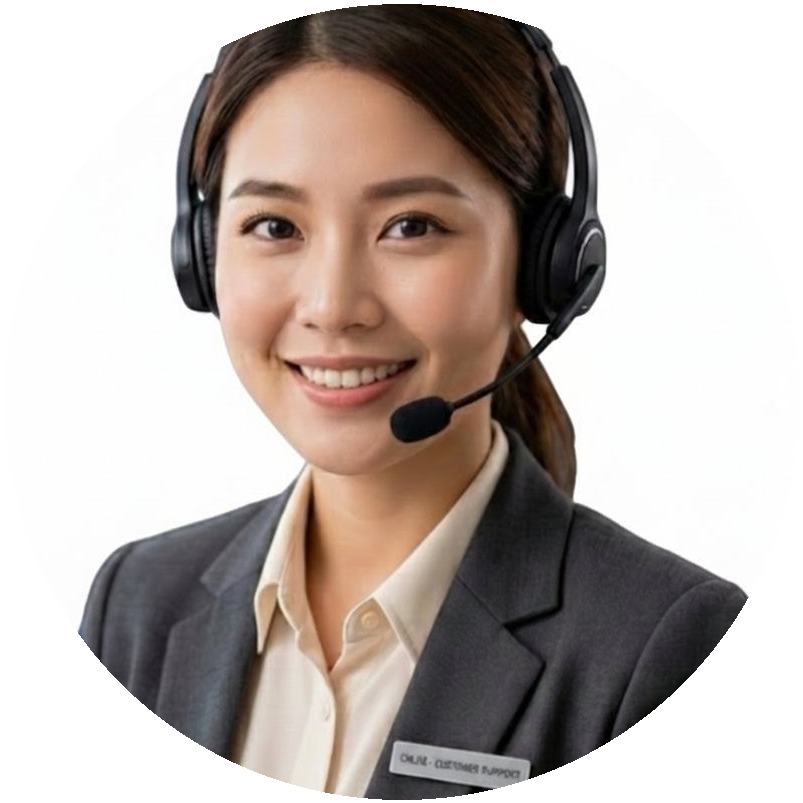
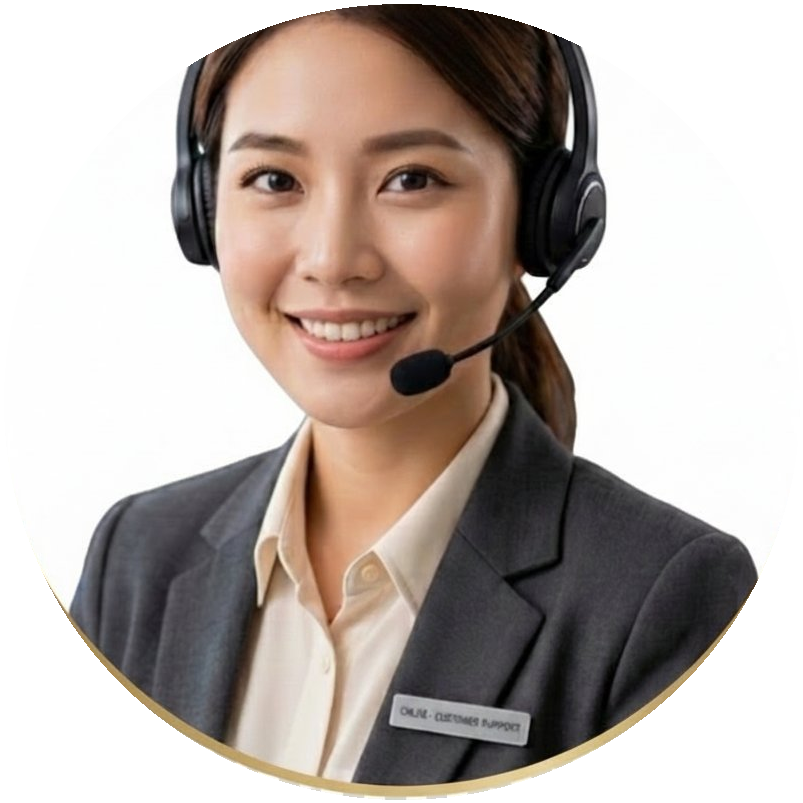
🎯 頭部截圖修正+移除AI紅底badge

diff --git a/index.html b/index.html
@@ -776,13 +776,7 @@
       padding: 3px 12px; border-radius: 12px;
       box-shadow: 0 2px 8px rgba(0,80,160,.4);
     }
-    #cb-badge {
-      position: fixed; bottom: 118px; right: 10px; z-index: 2147483647;
-      background: #f85149; color: #fff; font-size: .55rem; font-weight: 700;
-      width: 20px; height: 20px; border-radius: 50%;
-      display: flex; align-items: center; justify-content: center;
-      font-family: sans-serif; border: 2px solid #fff; pointer-events: none;
-    }
+
     #cb-win {
       position: fixed; bottom: 142px; right: 16px; z-index: 2147483646;
       width: 360px; max-height: 560px;
@@ -827,15 +821,13 @@
     .cb-send { width:38px; height:38px; border-radius:50%; background:#1a6fa8; border:none; cursor:pointer; display:flex; align-items:center; justify-content:center; font-size:.9rem; transition:background .2s,transform .15s; flex-shrink:0; }
     .cb-send:hover { background:#155a8a; transform:scale(1.08); }
     .cb-send:disabled { background:#c0c8d4; cursor:not-allowed; transform:none; }
-    @media(max-width:420px){#cb-win{width:calc(100vw - 24px);right:8px;bottom:120px;}#cb-btn{bottom:8px;right:8px;width:88px;}#cb-btn>img{width:88px;height:88px;}#cb-badge{bottom:96px;right:6px;}}
+    @media(max-width:420px){#cb-win{width:calc(100vw - 24px);right:8px;bottom:120px;}#cb-btn{bottom:8px;right:8px;width:88px;}#cb-btn>img{width:88px;height:88px;}}
   </style>
 
   <button id="cb-btn" onclick="cbToggle()" aria-label="開啟 AI 智能客服">
     <img src="img/chloe.png" alt="AI客服 Chloe" />
     <span>智能客服</span>
   </button>
-  <div id="cb-badge">AI</div>
-
   <div id="cb-win" role="dialog" aria-modal="true" aria-label="AI 智能客服">
     <div class="cb-head">
       <div class="cb-head-av"><img src="img/chloe.png" alt="Chloe" /></div>
